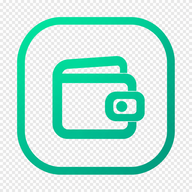
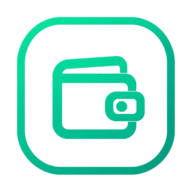
chore: update application assets
Replace branding icons and logo images with updated versions.

diff --git a/public/sw.js b/public/sw.js
@@ -1,5 +1,5 @@
 // SmartFinancer Service Worker for PWA, APK & Share Target Support
-const CACHE_NAME = 'smartfinancer-v4';
+const CACHE_NAME = 'smartfinancer-v5';
 const PRECACHE_ASSETS = [
   '/',
   '/index.html',
